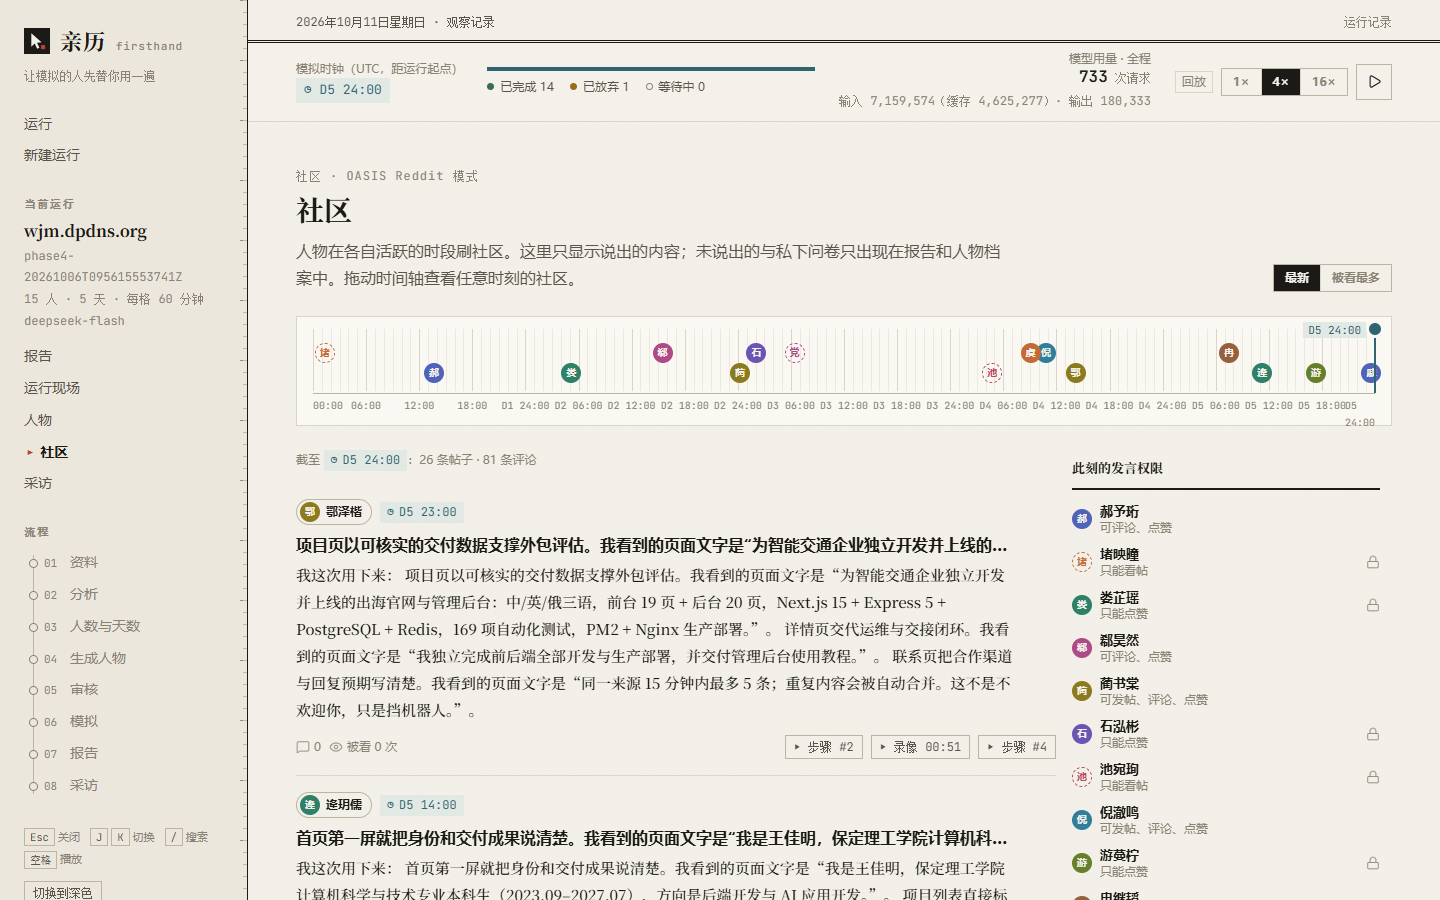
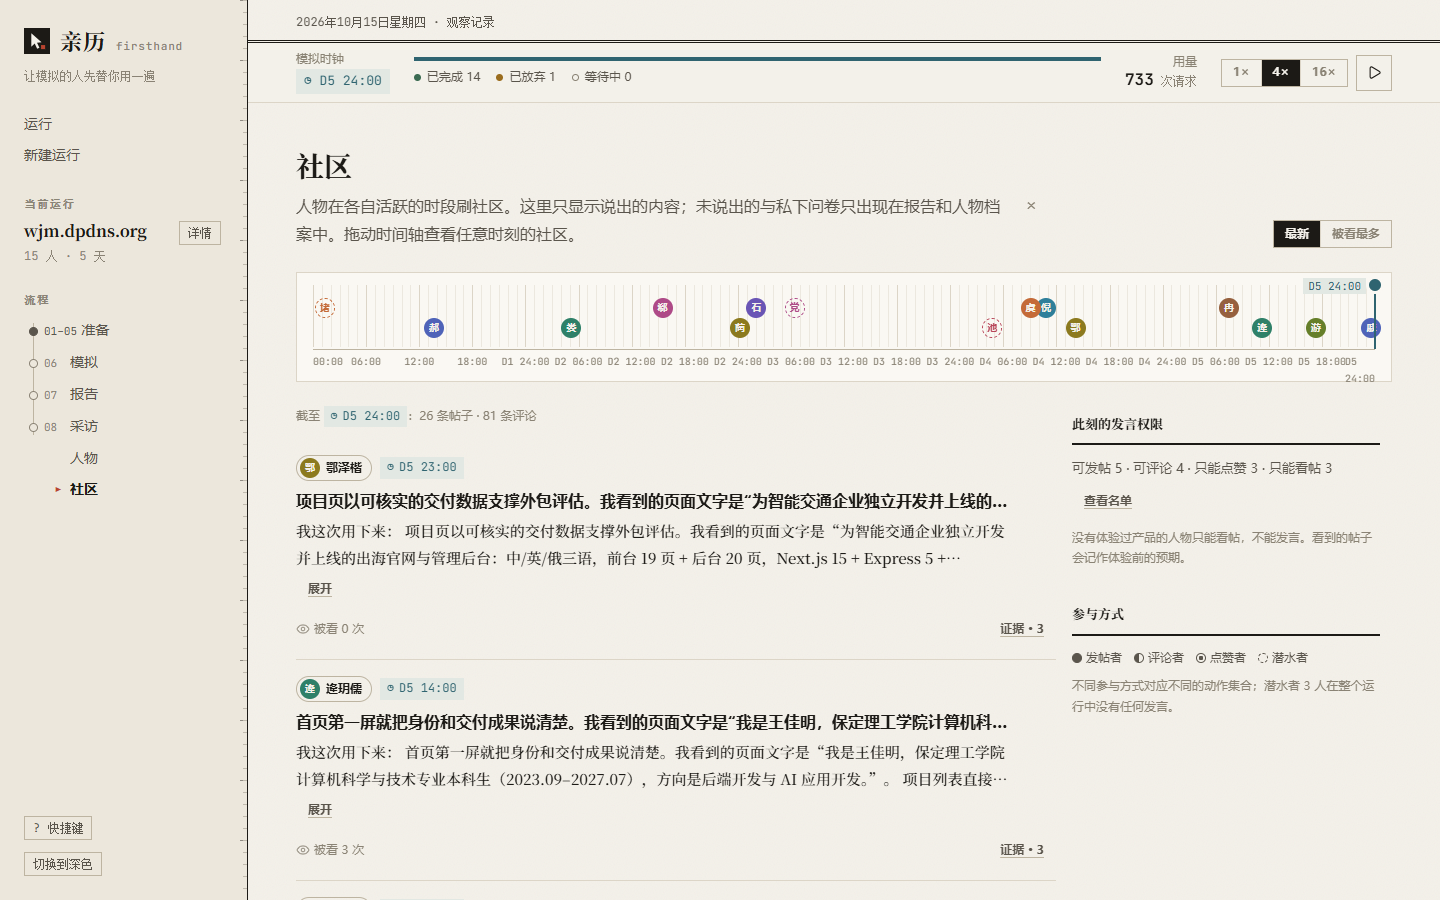
文档：README 截图按 UI 优化后的界面重新截取，同步更新截图说明

diff --git a/README.md b/README.md
@@ -53,7 +53,7 @@ The overall pipeline is inspired by [MiroFish](https://github.com/666ghj/MiroFis
 - **Real browsing.** [Browser Use](https://github.com/browser-use/browser-use) + [Steel](https://steel.dev) cloud browsers, one isolated session per persona with built-in recording; domain allow-lists, forbidden actions and test-account injection are all gated.
 - **Social discussion.** [OASIS](https://github.com/camel-ai/oasis) in Reddit mode, interleaved with browsing slice by slice. Some post, some only comment, some only upvote, some just lurk.
 - **Report Agent.** The model writes the issue list and highlights, which must pass an evidence gate (citation exists, quotes are verbatim, evidence type matches). All other sections are generated by code from the full record.
-- **Web UI.** New run → review → live progress → report. Click an issue to jump to the matching moment in the session recording and screenshot, with console / network summaries.
+- **Web UI.** New run → review → live progress → report. Click an issue to jump to the matching moment in the session recording and screenshot, with console / network summaries. Each page leads with the conclusion; details, method notes and run metadata (IDs, model, token usage) open on demand.
 - **Interviews.** Ask any persona follow-up questions; answers cite their own experience.
 - **Multiple providers.** Generic OpenAI-compatible, DeepSeek, Xiaomi MiMo and Alibaba Cloud Model Studio (Bailian) adapters; Chat Completions and Responses APIs. Text-only (non-vision) models can complete the whole pipeline, with results marked as limited reliability.
 
@@ -67,10 +67,10 @@ The overall pipeline is inspired by [MiroFish](https://github.com/666ghj/MiroFis
 
 | Live timeline | Community |
 |---|---|
-| ![Live timeline: each persona's browsing slots, posts and comments over 5 days](docs/images/live.png) | ![Reddit-style community with per-persona speaking rights](docs/images/community.png) |
-| **Every persona's browsing slots, posts and comments on one timeline. Drag the playhead to replay any moment.** | **What was said publicly, and who was only allowed to read or upvote.** |
+| ![Live timeline: each persona's browsing slots, posts and comments on the current simulated day](docs/images/live.png) | ![Reddit-style community with per-persona speaking rights](docs/images/community.png) |
+| **Every persona's browsing slots, posts and comments on one timeline, zoomed to the current day by default. Drag the playhead to replay any moment.** | **What was said publicly, and who was only allowed to read or upvote.** |
 
-**Personas.** Coverage of the dimension matrix, each persona's outcome, emotion curve, NPS and withheld content.
+**Personas.** A one-line coverage check of the dimension matrix, then one row per persona: outcome, NPS and how much they withheld. Click a row for the full profile and emotion curve.
 
 ![Personas](docs/images/personas.png)
 

diff --git a/README.zh-CN.md b/README.zh-CN.md
@@ -53,7 +53,7 @@
 - **真实浏览**：[Browser Use](https://github.com/browser-use/browser-use) + [Steel](https://steel.dev) 云端浏览器，每人独立会话，自带录像；域名白名单、禁止动作和测试账号注入都有门禁。
 - **社交讨论**：[OASIS](https://github.com/camel-ai/oasis) Reddit 模式，体验与讨论按时间片交织；有人发帖、有人评论、有人只点赞、有人潜水。
 - **Report Agent**：问题清单与亮点由模型撰写，并通过证据门禁（引用存在、引文为原文、类型匹配）；其余章节由代码从完整记录生成。
-- **Web UI**：新建运行 → 审核 → 实时进度 → 报告；在报告里点问题即可跳到对应的录像片段与截图，并查看 Console / Network 摘要。
+- **Web UI**：新建运行 → 审核 → 实时进度 → 报告；在报告里点问题即可跳到对应的录像片段与截图，并查看 Console / Network 摘要。每页先给结论，细节、方法说明和运行元数据（ID、模型、用量）按需展开。
 - **采访**：可以对任意 Persona 单独追问，回答引用其体验证据。
 - **多模型提供商**：通用 OpenAI 兼容、DeepSeek、小米 MiMo、阿里云百炼适配器；支持 Chat Completions 与 Responses 接口；不支持识图的纯文本模型也能跑完全程（结果标注参考性有限）。
 
@@ -67,10 +67,10 @@
 
 | 运行现场 | 社区 |
 |---|---|
-| ![运行现场：每个人物 5 天内的体验时段、发帖与评论](docs/images/live.png) | ![Reddit 式社区与每个人物的发言权限](docs/images/community.png) |
-| **所有人物的体验时段、发帖和评论在同一条时间线上，拖动播放头可回放任意时刻。** | **公开说出的内容，以及谁只能看帖或点赞。** |
+| ![运行现场：每个人物在当前模拟日的体验时段、发帖与评论](docs/images/live.png) | ![Reddit 式社区与每个人物的发言权限](docs/images/community.png) |
+| **所有人物的体验时段、发帖和评论在同一条时间线上，默认显示当天，拖动播放头可回放任意时刻。** | **公开说出的内容，以及谁只能看帖或点赞。** |
 
-**人物**。维度矩阵的覆盖情况，以及每个人物的结果、情绪曲线、NPS 和没说出口的内容。
+**人物**。一行写明维度矩阵的覆盖是否达标，下面每人一行：结果、NPS 和没说出口的条数。点开一行可以看完整档案和情绪曲线。
 
 ![人物](docs/images/personas.png)
 

diff --git a/CHANGELOG.md b/CHANGELOG.md
@@ -30,6 +30,11 @@
   - 新建运行：“只填网址”模式下的三个选填项收在“补充信息（可选）”里，已经填了内容时自动展开。
   - 任务页：日志默认折叠成一行，任务失败时自动展开。现场的步骤列表默认显示最近 5 步。
 
+
+### 文档
+
+- README 中英文版的 5 张截图按 UI 优化后的界面重新截取，截图说明（运行现场、人物）和 Web UI 功能描述同步更新。
+
 ## 2026-10-13
 
 ### 文档
